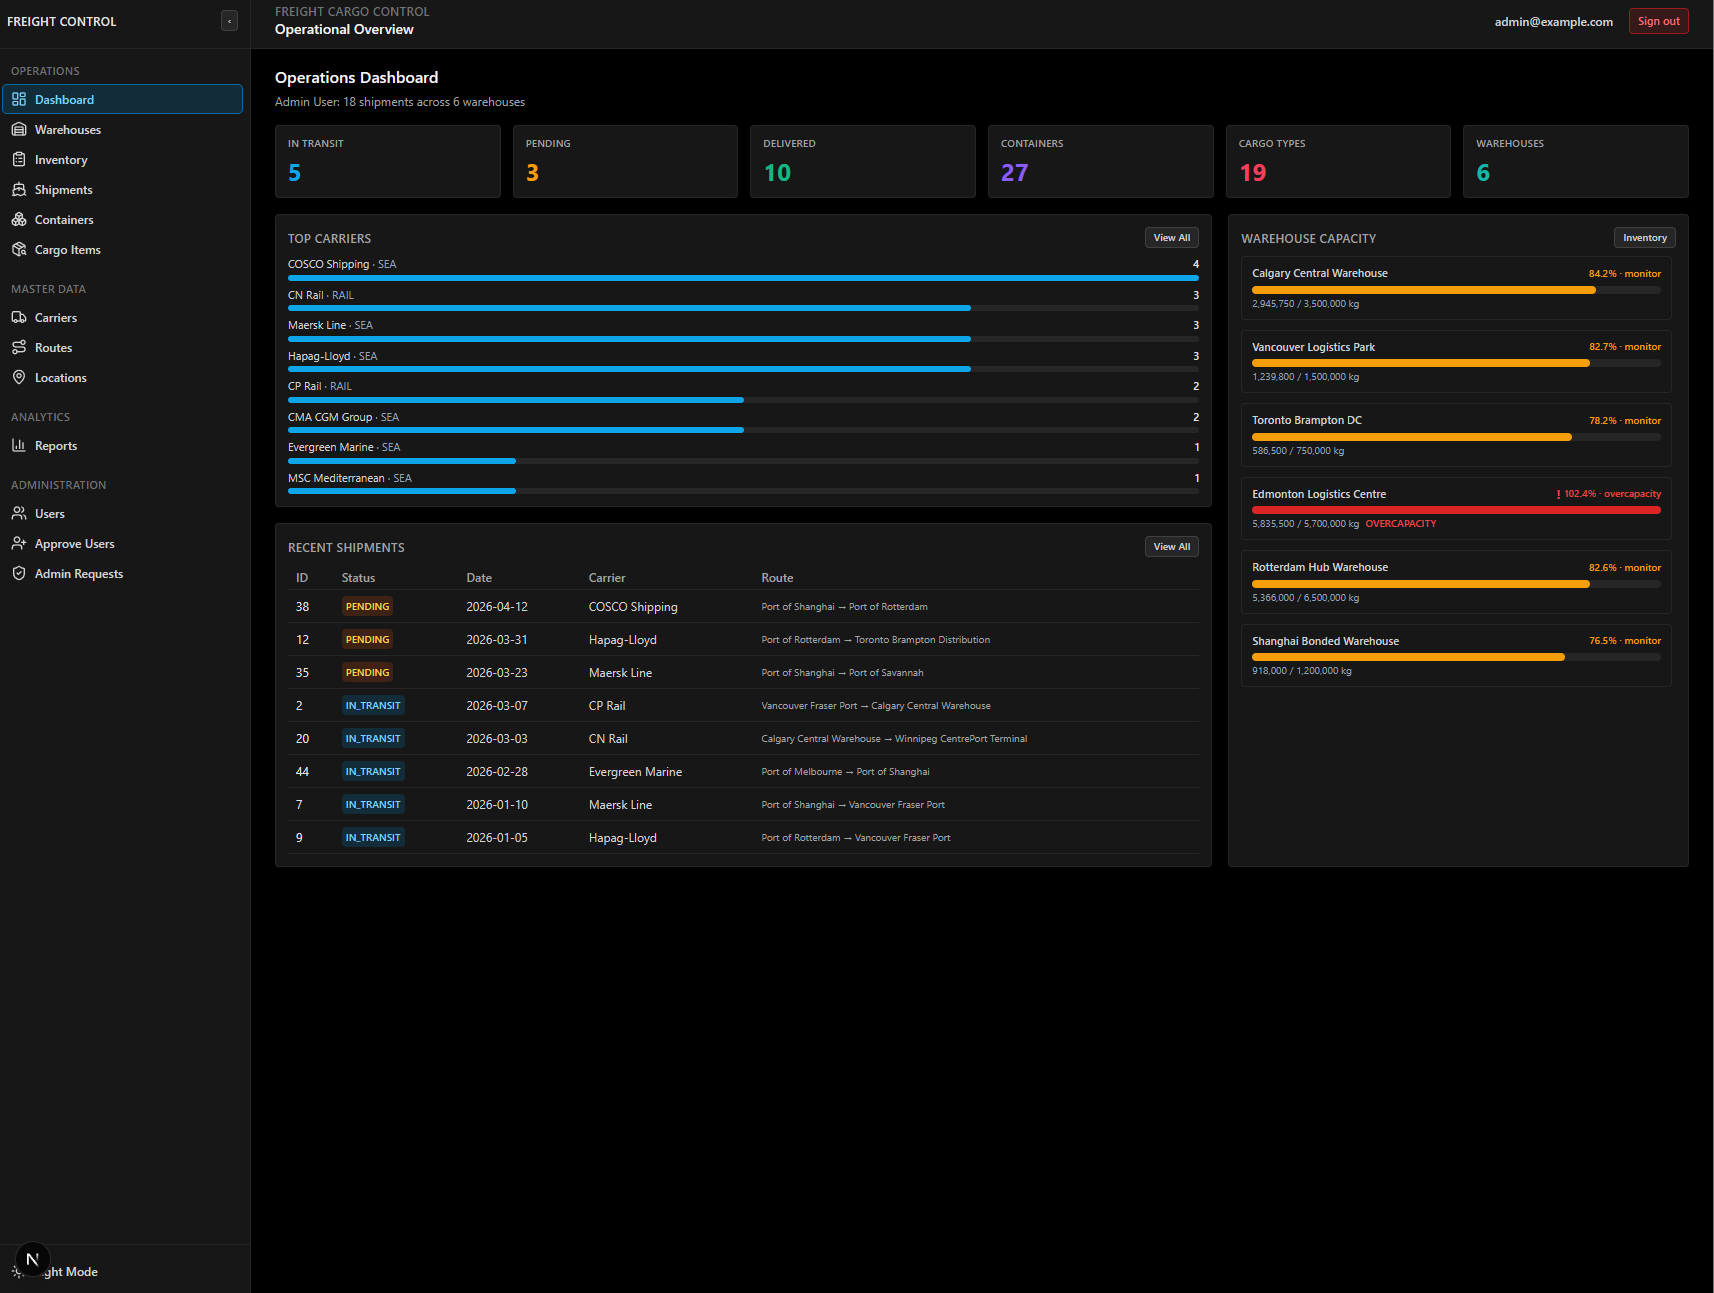
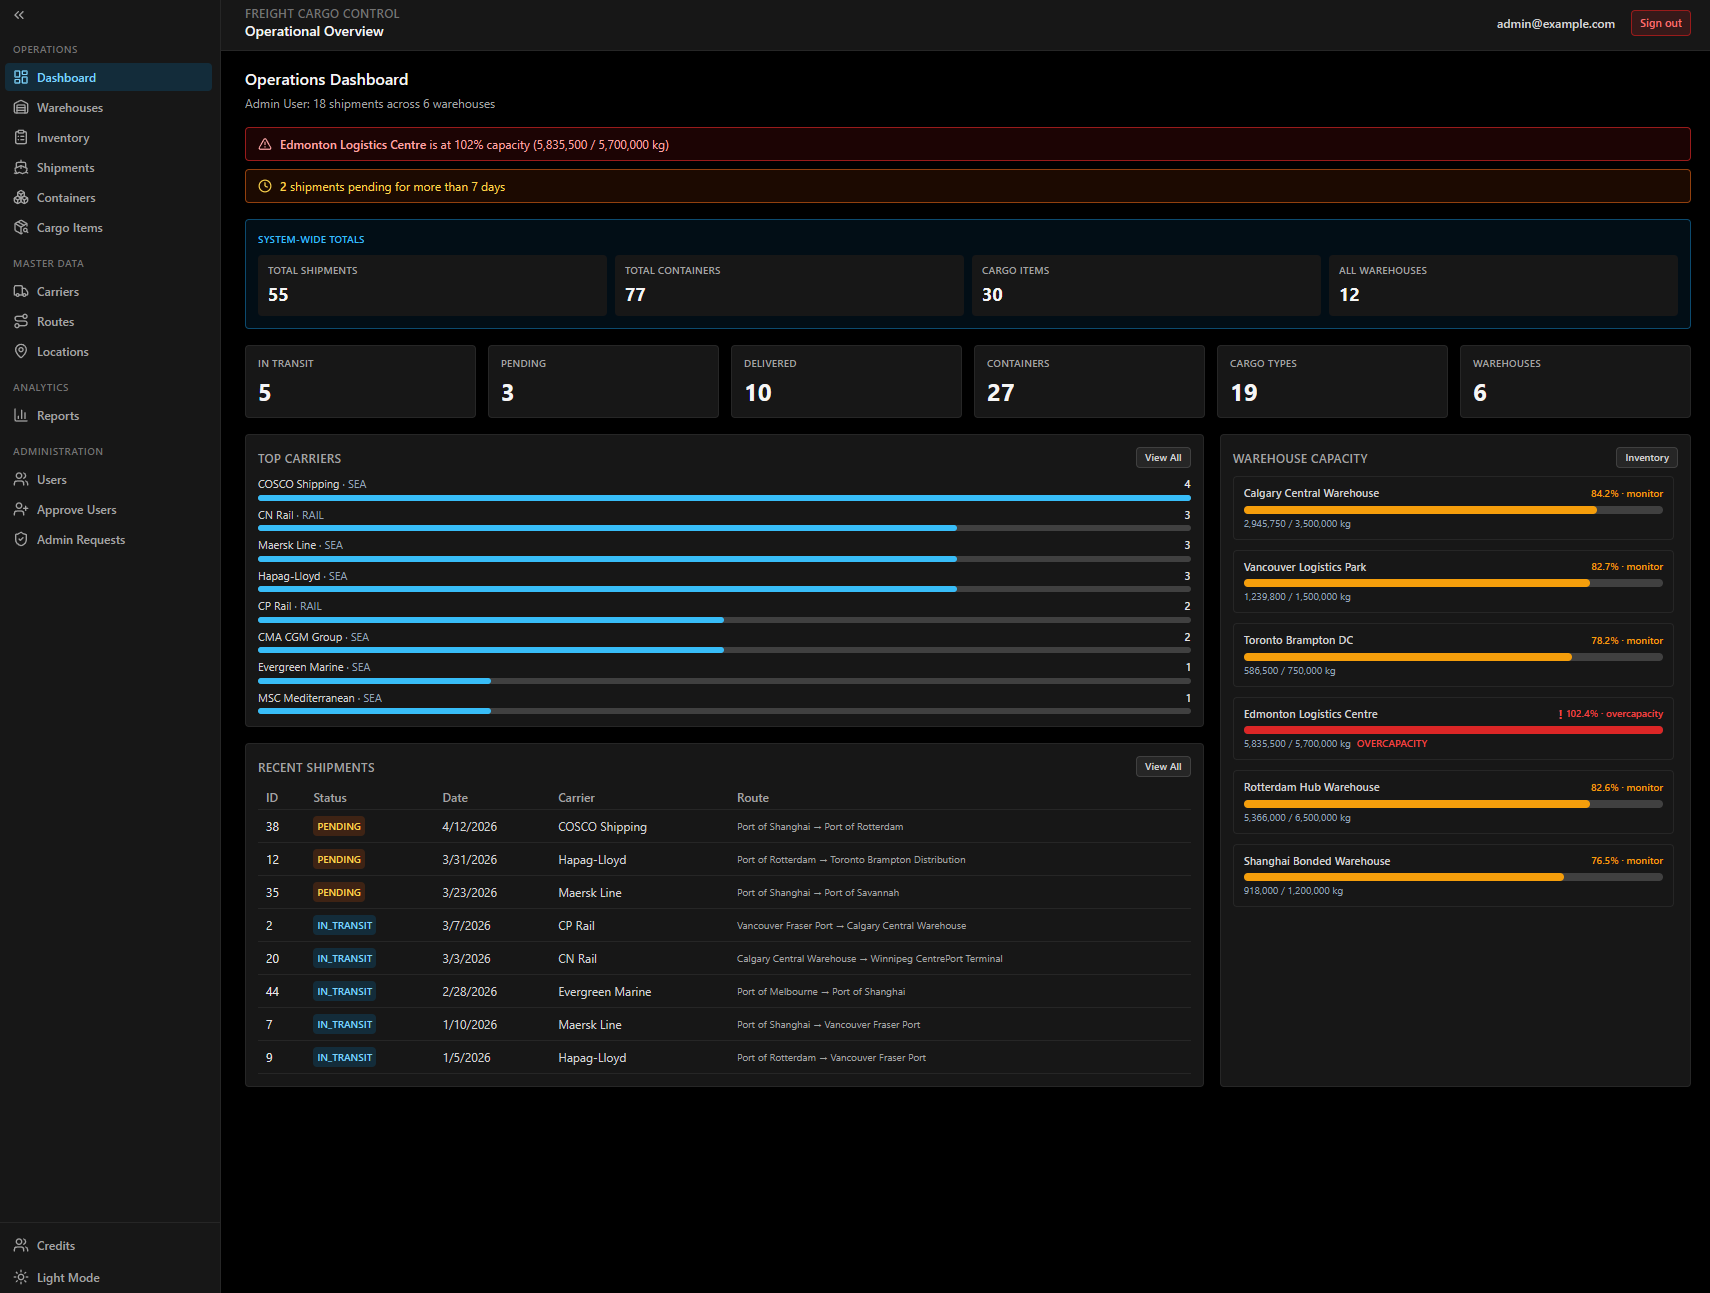
chore: fixed a bug with user_id FK in audit_logs table on TA feedback, and fixed other bugs to polish platform

diff --git a/app/(dashboard)/cargo/page.tsx b/app/(dashboard)/cargo/page.tsx
@@ -8,16 +8,17 @@ async function createCargo(formData: FormData) {
   "use server";
   const user = await getCurrentUser();
   if (!user) redirect("/login");
+  if (user.role !== "ADMIN" && user.role !== "STAFF") redirect("/");
 
   const cargoType = String(formData.get("cargo_type") ?? "").trim();
   const weightRaw = String(formData.get("weight") ?? "").trim();
   const warehouseIdRaw = String(formData.get("warehouse_id") ?? "").trim();
   const quantityRaw = String(formData.get("initial_quantity") ?? "").trim();
 
-  if (!cargoType || !weightRaw) return;
+  if (!cargoType || !weightRaw) redirect(`/cargo?error=${encodeURIComponent("Cargo type and weight are required.")}`);
 
   const weight = Number(weightRaw);
-  if (!Number.isFinite(weight) || weight <= 0) return;
+  if (!Number.isFinite(weight) || weight <= 0) redirect(`/cargo?error=${encodeURIComponent("Weight must be a positive number.")}`);
 
   const pool = getPool();
 
@@ -45,10 +46,17 @@ async function createCargo(formData: FormData) {
   revalidatePath("/cargo");
 }
 
+type CargoPageProps = {
+  searchParams: Promise<{ error?: string }>;
+};
+
 // Cargo items page: list all cargo and create new items
-export default async function CargoPage() {
+export default async function CargoPage({ searchParams }: CargoPageProps) {
   const user = await getCurrentUser();
   if (!user) redirect("/login");
+
+  const params = await searchParams;
+  const error = (params.error ?? "").trim();
 
   const pool = getPool();
   const result = await pool.query("SELECT cargo_id, cargo_type, weight FROM cargo_items ORDER BY cargo_id LIMIT 500");
@@ -60,6 +68,10 @@ export default async function CargoPage() {
           <h1 className="text-base font-semibold text-slate-900 dark:text-neutral-100">Cargo Items</h1>
           <p className="mt-1 text-xs text-slate-600 dark:text-neutral-400">Master data for cargo items, types, and per-unit weights.</p>
         </header>
+
+        {error && (
+          <div className="rounded border border-red-200 bg-red-50 px-3 py-2 text-[11px] text-red-700 dark:border-red-800 dark:bg-red-900/30 dark:text-red-400">{error}</div>
+        )}
 
         {/* Create cargo form */}
         <div className="rounded border border-slate-200 bg-white p-3 dark:border-neutral-800 dark:bg-neutral-900">

diff --git a/app/(dashboard)/reports/page.tsx b/app/(dashboard)/reports/page.tsx
@@ -1,6 +1,7 @@
 import { getPool } from "@/lib/db";
 import { getCurrentUser } from "@/lib/auth";
 import { redirect } from "next/navigation";
+import { StatusBadge, statusColor } from "@/components/ui/StatusBadge";
 
 export default async function ReportsPage() {
   const user = await getCurrentUser();
@@ -130,7 +131,7 @@ export default async function ReportsPage() {
                         strokeDasharray={`${circ} 283`}
                         strokeLinecap="round"
                         transform="rotate(-90 50 50)"
-                        style={{ color: s.status === "DELIVERED" ? "#10b981" : s.status === "IN_TRANSIT" ? "#0ea5e9" : s.status === "PENDING" ? "#f59e0b" : "#ef4444" }}
+                        style={{ color: statusColor(s.status) }}
                       />
                       <text x="50" y="54" textAnchor="middle" className="fill-slate-800 dark:fill-neutral-100" style={{ fontSize: "24px", fontWeight: 700 }}>{pct}%</text>
                     </svg>
@@ -240,12 +241,7 @@ export default async function ReportsPage() {
                     <tr key={s.shipment_id} className="border-b border-slate-100 dark:border-neutral-800">
                       <td className="px-2 py-1.5 text-slate-800 dark:text-neutral-200">{s.shipment_id}</td>
                       <td className="px-2 py-1.5">
-                        <span className={`inline-block rounded px-1 py-0.5 text-[10px] font-semibold ${
-                          s.status === "DELIVERED" ? "bg-emerald-100 text-emerald-800 dark:bg-emerald-900/40 dark:text-emerald-300" :
-                          s.status === "IN_TRANSIT" ? "bg-sky-100 text-sky-800 dark:bg-sky-900/40 dark:text-sky-300" :
-                          s.status === "PENDING" ? "bg-amber-100 text-amber-800 dark:bg-amber-900/40 dark:text-amber-300" :
-                          "bg-red-100 text-red-800 dark:bg-red-900/40 dark:text-red-300"
-                        }`}>{s.status}</span>
+                        <StatusBadge status={s.status} />
                       </td>
                       <td className="px-2 py-1.5 text-slate-700 dark:text-neutral-300">{s.carrier_name}</td>
                       <td className="px-2 py-1.5 text-[10px] text-slate-500 dark:text-neutral-400">{s.origin} → {s.dest}</td>

diff --git a/app/api/register/route.ts b/app/api/register/route.ts
@@ -1,8 +1,10 @@
 import { NextRequest, NextResponse } from "next/server";
 import { getPool } from "@/lib/db";
+import { createSupabaseServer } from "@/lib/supabase-server";
 
 // POST /api/register - Creates a public.users row for a newly registered user.
 // The user starts with pending_registration status and STAFF role (role_id=2).
+// Requires a valid Supabase session whose email matches the request body.
 export async function POST(req: NextRequest) {
   try {
     const { name, email } = await req.json();
@@ -11,19 +13,24 @@ export async function POST(req: NextRequest) {
       return NextResponse.json({ error: "Name and email are required." }, { status: 400 });
     }
 
+    const supabase = await createSupabaseServer();
+    const { data: { user: authUser } } = await supabase.auth.getUser();
+
+    if (!authUser || authUser.email !== email.trim()) {
+      return NextResponse.json({ error: "Unauthorized." }, { status: 401 });
+    }
+
     const pool = getPool();
 
-    // Check if user already exists to avoid wasting sequence IDs
     const existing = await pool.query("SELECT user_id FROM users WHERE email = $1", [email.trim()]);
     if ((existing.rowCount ?? 0) > 0) {
       return NextResponse.json({ ok: true, userId: existing.rows[0].user_id });
     }
 
-    // Manually set user_id to max+1 to avoid gaps from failed inserts
     const result = await pool.query(
       `
-      INSERT INTO users (user_id, name, email, password, role_id, account_status)
-      VALUES ((SELECT COALESCE(MAX(user_id), 0) + 1 FROM users), $1, $2, 'supabase-managed', 2, 'pending_registration')
+      INSERT INTO users (name, email, password, role_id, account_status)
+      VALUES ($1, $2, 'supabase-managed', 2, 'pending_registration')
       RETURNING user_id
       `,
       [name.trim(), email.trim()]
@@ -31,10 +38,6 @@ export async function POST(req: NextRequest) {
 
     const userId = result.rows[0].user_id;
 
-    // Keep the sequence in sync so future BIGSERIAL inserts don't conflict
-    await pool.query("SELECT setval('users_user_id_seq', (SELECT MAX(user_id) FROM users))");
-
-    // Also create the warehouse_staff specialization row
     await pool.query(
       `
       INSERT INTO warehouse_staff (user_id, job_title, shift)

diff --git a/components/dashboard/DashboardOverview.tsx b/components/dashboard/DashboardOverview.tsx
@@ -1,6 +1,7 @@
 import Link from "next/link";
 import { getPool } from "@/lib/db";
 import { AlertBanner } from "./AlertBanner";
+import { StatusBadge } from "@/components/ui/StatusBadge";
 
 type Role = "ADMIN" | "STAFF" | "UNKNOWN";
 
@@ -284,12 +285,7 @@ export async function DashboardOverview({ warehouseIds, userName, role }: Dashbo
                           <tr key={s.shipment_id} className="border-b border-slate-100 dark:border-neutral-800">
                             <td className="px-2 py-1.5 text-slate-800 dark:text-neutral-200">{s.shipment_id}</td>
                             <td className="px-2 py-1.5">
-                              <span className={`inline-block rounded px-1 py-0.5 text-[10px] font-semibold ${
-                                s.status === "DELIVERED" ? "bg-emerald-100 text-emerald-800 dark:bg-emerald-900/40 dark:text-emerald-300" :
-                                s.status === "IN_TRANSIT" ? "bg-sky-100 text-sky-800 dark:bg-sky-900/40 dark:text-sky-300" :
-                                s.status === "PENDING" ? "bg-amber-100 text-amber-800 dark:bg-amber-900/40 dark:text-amber-300" :
-                                "bg-red-100 text-red-800 dark:bg-red-900/40 dark:text-red-300"
-                              }`}>{s.status}</span>
+                              <StatusBadge status={s.status} />
                             </td>
                             <td className="px-2 py-1.5 text-slate-700 dark:text-neutral-300">{s.shipment_date ? new Date(s.shipment_date as string).toLocaleDateString() : "-"}</td>
                             <td className="px-2 py-1.5 text-slate-700 dark:text-neutral-300">{s.carrier_name}</td>

diff --git a/app/(dashboard)/shipments/page.tsx b/app/(dashboard)/shipments/page.tsx
@@ -2,6 +2,7 @@ import { getPool } from "@/lib/db";
 import { getCurrentUser } from "@/lib/auth";
 import { redirect } from "next/navigation";
 import { revalidatePath } from "next/cache";
+import { StatusBadge } from "@/components/ui/StatusBadge";
 
 async function createShipment(formData: FormData) {
   "use server";
@@ -177,12 +178,7 @@ export default async function ShipmentsPage({ searchParams }: ShipmentsPageProps
                   <tr key={s.shipment_id} className="border-b border-slate-100 dark:border-neutral-800">
                     <td className="px-3 py-2 text-slate-800 dark:text-neutral-200">{s.shipment_id}</td>
                     <td className="px-3 py-2">
-                      <span className={`inline-block rounded px-1.5 py-0.5 text-[10px] font-semibold ${
-                        s.status === "DELIVERED" ? "bg-emerald-100 text-emerald-800 dark:bg-emerald-900/40 dark:text-emerald-300" :
-                        s.status === "IN_TRANSIT" ? "bg-sky-100 text-sky-800 dark:bg-sky-900/40 dark:text-sky-300" :
-                        s.status === "PENDING" ? "bg-amber-100 text-amber-800 dark:bg-amber-900/40 dark:text-amber-300" :
-                        "bg-red-100 text-red-800 dark:bg-red-900/40 dark:text-red-300"
-                      }`}>{s.status}</span>
+                      <StatusBadge status={s.status} />
                     </td>
                     <td className="px-3 py-2 text-slate-700 dark:text-neutral-300">{s.shipment_date ? new Date(s.shipment_date).toLocaleDateString() : "-"}</td>
                     <td className="px-3 py-2 text-slate-700 dark:text-neutral-300">{s.carrier_name}</td>

diff --git a/app/(dashboard)/admin/approvals/users/page.tsx b/app/(dashboard)/admin/approvals/users/page.tsx
@@ -10,7 +10,7 @@ async function approveUser(formData: FormData) {
   if (!current || current.role !== "ADMIN") redirect("/login");
 
   const userId = Number(formData.get("user_id"));
-  if (!Number.isInteger(userId)) return;
+  if (!Number.isInteger(userId)) redirect("/admin/approvals/users");
 
   const pool = getPool();
   await pool.query(
@@ -20,20 +20,33 @@ async function approveUser(formData: FormData) {
   revalidatePath("/admin/approvals/users");
 }
 
-// Reject a pending user registration
+// Reject a pending user registration and disable their Supabase auth account
 async function rejectUser(formData: FormData) {
   "use server";
   const current = await getCurrentUser();
   if (!current || current.role !== "ADMIN") redirect("/login");
 
   const userId = Number(formData.get("user_id"));
-  if (!Number.isInteger(userId)) return;
+  if (!Number.isInteger(userId)) redirect("/admin/approvals/users");
 
   const pool = getPool();
   await pool.query(
     "UPDATE users SET account_status = 'rejected' WHERE user_id = $1",
     [userId]
   );
+
+  const emailRes = await pool.query(
+    "SELECT email FROM users WHERE user_id = $1",
+    [userId]
+  );
+  if (emailRes.rowCount && emailRes.rowCount > 0) {
+    const email = emailRes.rows[0].email;
+    await pool.query(
+      "UPDATE auth.users SET banned_until = 'infinity' WHERE email = $1",
+      [email]
+    );
+  }
+
   revalidatePath("/admin/approvals/users");
 }
 

diff --git a/components/dashboard/AlertBanner.tsx b/components/dashboard/AlertBanner.tsx
@@ -6,7 +6,7 @@ type AlertBannerProps = {
   locationIds: number[];
 };
 
-type OvercapRow = { name: string; capacity: number; used: string | number };
+type OvercapRow = { warehouse_id: number; name: string; capacity: number; used: string | number };
 
 export async function AlertBanner({ warehouseIds, locationIds }: AlertBannerProps) {
   if (warehouseIds.length === 0) return null;
@@ -16,7 +16,7 @@ export async function AlertBanner({ warehouseIds, locationIds }: AlertBannerProp
 
   // Warehouses above 90% capacity
   const overcapRes = await pool.query(
-    `SELECT w.name, w.capacity, COALESCE(v.total_weight, 0) AS used
+    `SELECT w.warehouse_id, w.name, w.capacity, COALESCE(v.total_weight, 0) AS used
      FROM warehouses w
      LEFT JOIN view_warehouse_inventory v ON v.warehouse_id = w.warehouse_id
      WHERE w.warehouse_id IN (${whParams})
@@ -47,7 +47,7 @@ export async function AlertBanner({ warehouseIds, locationIds }: AlertBannerProp
         const pct = w.capacity > 0 ? Math.round((Number(w.used) / w.capacity) * 100) : 0;
         return (
           <div
-            key={w.name}
+            key={w.warehouse_id}
             className="flex items-center gap-2 rounded border border-red-300 bg-red-50 px-3 py-2 text-xs text-red-800 dark:border-red-800 dark:bg-red-950/40 dark:text-red-300"
           >
             <AlertTriangle className="h-3.5 w-3.5 flex-shrink-0" />

diff --git a/app/api/db/health/route.ts b/app/api/db/health/route.ts
@@ -1,9 +1,14 @@
 import { NextResponse } from "next/server";
 import { getPool } from "@/lib/db";
+import { getCurrentUser } from "@/lib/auth";
 
-// GET /api/db/health - Simple health check to verify database connectivity.
-// Returns the current timestamp and Postgres version on success.
+// GET /api/db/health - Admin-only health check to verify database connectivity.
 export async function GET() {
+  const user = await getCurrentUser();
+  if (!user || user.role !== "ADMIN") {
+    return NextResponse.json({ error: "Unauthorized." }, { status: 401 });
+  }
+
   if (!process.env.DATABASE_URL) {
     return NextResponse.json(
       { ok: false, error: "Missing DATABASE_URL env var." },
@@ -13,12 +18,11 @@ export async function GET() {
 
   try {
     const pool = getPool();
-    const result = await pool.query("SELECT now() AS now, version() AS version");
+    const result = await pool.query("SELECT now() AS now");
 
     return NextResponse.json({
       ok: true,
       now: result.rows[0]?.now ?? null,
-      version: result.rows[0]?.version ?? null,
     });
   } catch (err) {
     const message = err instanceof Error ? err.message : "Unknown DB error";

diff --git a/app/(dashboard)/admin/approvals/admin-requests/page.tsx b/app/(dashboard)/admin/approvals/admin-requests/page.tsx
@@ -10,16 +10,15 @@ async function approveRequest(formData: FormData) {
   if (!current || current.role !== "ADMIN") redirect("/login");
 
   const requestId = Number(formData.get("request_id"));
-  if (!Number.isInteger(requestId)) return;
+  if (!Number.isInteger(requestId)) redirect("/admin/approvals/admin-requests");
 
   const pool = getPool();
 
-  // Look up the user_id from the request row (don't trust client-supplied value)
   const reqRow = await pool.query(
     `SELECT user_id FROM admin_access_requests WHERE request_id = $1 AND status = 'pending'`,
     [requestId]
   );
-  if ((reqRow.rowCount ?? 0) === 0) return;
+  if ((reqRow.rowCount ?? 0) === 0) redirect("/admin/approvals/admin-requests");
   const userId = reqRow.rows[0].user_id as number;
 
   // Mark the request as approved
@@ -49,7 +48,7 @@ async function rejectRequest(formData: FormData) {
   if (!current || current.role !== "ADMIN") redirect("/login");
 
   const requestId = Number(formData.get("request_id"));
-  if (!Number.isInteger(requestId)) return;
+  if (!Number.isInteger(requestId)) redirect("/admin/approvals/admin-requests");
 
   const pool = getPool();
   await pool.query(

diff --git a/app/(dashboard)/staff/request-admin/page.tsx b/app/(dashboard)/staff/request-admin/page.tsx
@@ -11,7 +11,7 @@ async function submitRequest(formData: FormData) {
   if (!user || user.role !== "STAFF") redirect("/");
 
   const reason = String(formData.get("reason") ?? "").trim().slice(0, 1000);
-  if (!reason) return;
+  if (!reason) redirect("/staff/request-admin?error=reason_required");
 
   const pool = getPool();
 
@@ -84,6 +84,12 @@ export default async function RequestAdminPage({ searchParams }: RequestAdminPag
         {params.error === "already_pending" && (
           <div className="rounded border border-amber-200 bg-amber-50 px-3 py-2 text-[11px] text-amber-700 dark:border-amber-800 dark:bg-amber-900/30 dark:text-amber-400">
             You already have a pending request.
+          </div>
+        )}
+
+        {params.error === "reason_required" && (
+          <div className="rounded border border-red-200 bg-red-50 px-3 py-2 text-[11px] text-red-700 dark:border-red-800 dark:bg-red-900/30 dark:text-red-400">
+            A reason is required to submit your request.
           </div>
         )}
 

diff --git a/app/(dashboard)/inventory/page.tsx b/app/(dashboard)/inventory/page.tsx
@@ -8,6 +8,7 @@ async function adjustInventory(formData: FormData) {
   "use server";
   const user = await getCurrentUser();
   if (!user) redirect("/login");
+  if (user.role !== "ADMIN" && user.role !== "STAFF") redirect("/");
 
   const cargoId = Number(String(formData.get("cargo_id") ?? "").trim());
   const warehouseId = Number(String(formData.get("warehouse_id") ?? "").trim());
@@ -34,6 +35,7 @@ async function moveCargoToContainer(formData: FormData) {
   "use server";
   const user = await getCurrentUser();
   if (!user) redirect("/login");
+  if (user.role !== "ADMIN" && user.role !== "STAFF") redirect("/");
 
   const cargoId = Number(String(formData.get("cargo_id") ?? "").trim());
   const containerId = Number(String(formData.get("container_id") ?? "").trim());
@@ -78,6 +80,7 @@ async function moveCargoToContainer(formData: FormData) {
   }
 
   revalidatePath("/inventory");
+  redirect("/inventory");
 }
 
 type InventoryPageProps = {

diff --git a/components/ui/StatusBadge.tsx b/components/ui/StatusBadge.tsx
@@ -1,0 +1,22 @@
+const statusStyles: Record<string, string> = {
+  DELIVERED: "bg-emerald-100 text-emerald-800 dark:bg-emerald-900/40 dark:text-emerald-300",
+  IN_TRANSIT: "bg-sky-100 text-sky-800 dark:bg-sky-900/40 dark:text-sky-300",
+  PENDING: "bg-amber-100 text-amber-800 dark:bg-amber-900/40 dark:text-amber-300",
+  CANCELLED: "bg-red-100 text-red-800 dark:bg-red-900/40 dark:text-red-300",
+};
+
+export function StatusBadge({ status }: { status: string }) {
+  const cls = statusStyles[status] ?? statusStyles.CANCELLED;
+  return (
+    <span className={`inline-block rounded px-1.5 py-0.5 text-[10px] font-semibold ${cls}`}>
+      {status}
+    </span>
+  );
+}
+
+export function statusColor(status: string): string {
+  if (status === "DELIVERED") return "#10b981";
+  if (status === "IN_TRANSIT") return "#0ea5e9";
+  if (status === "PENDING") return "#f59e0b";
+  return "#ef4444";
+}
